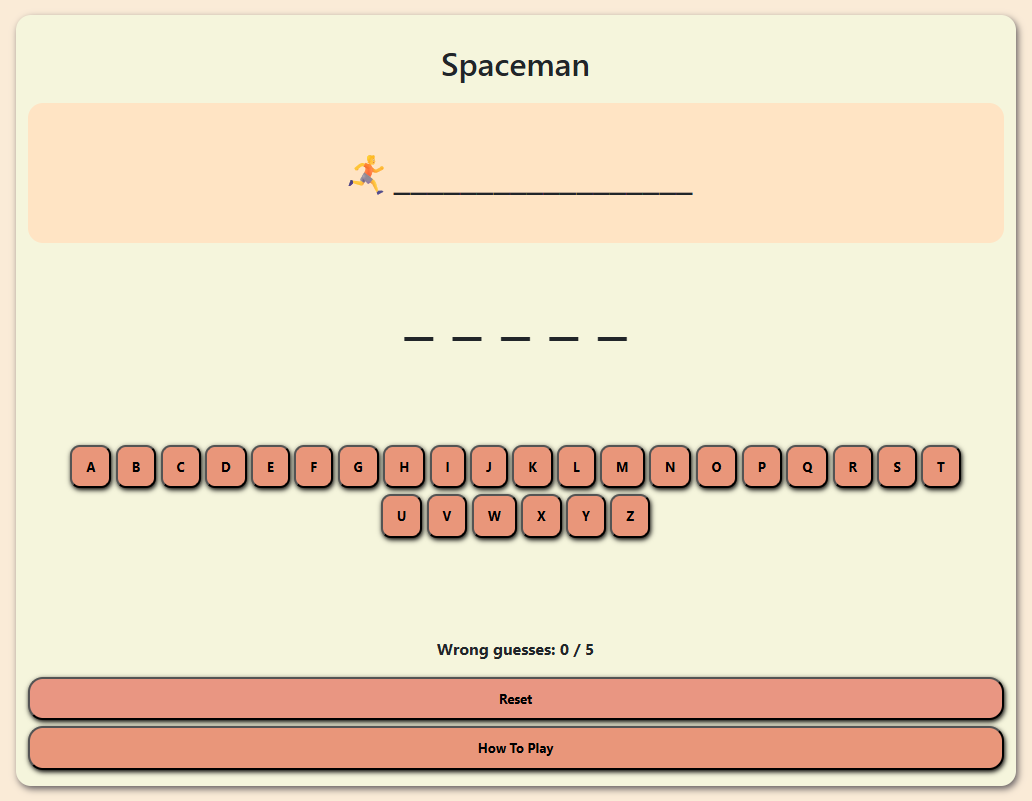
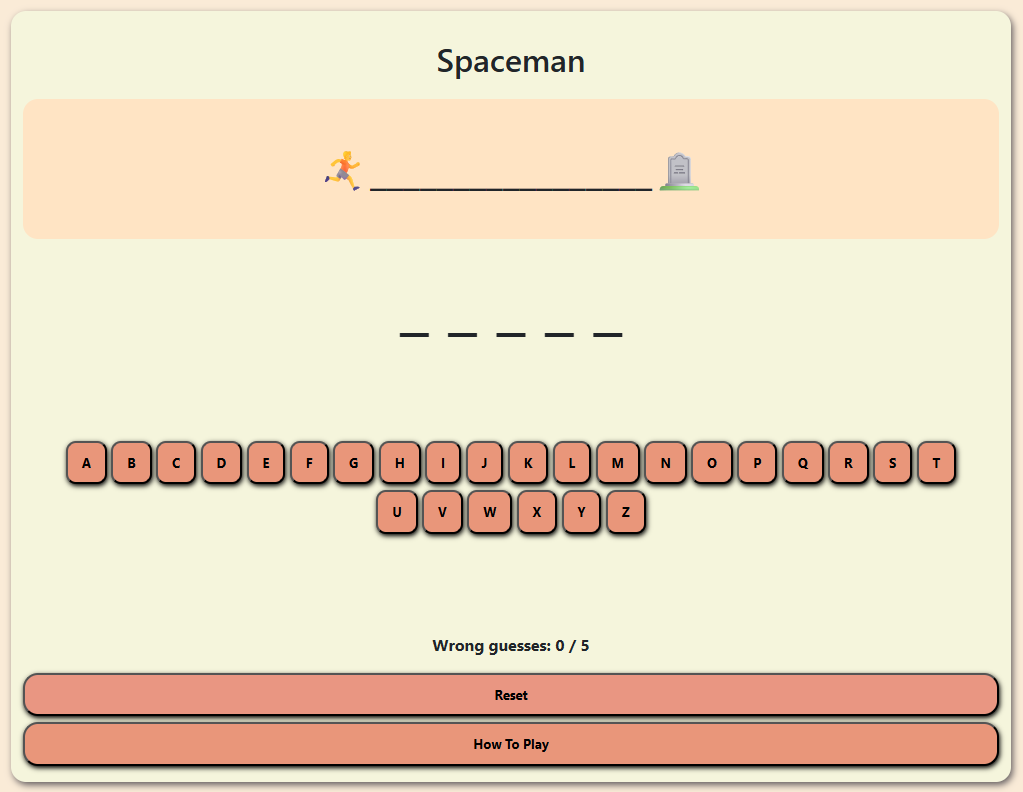
I removed unnecessary comments and updated some images

diff --git a/js/app.js b/js/app.js
@@ -1,7 +1,7 @@
 /*-------------- Constants -------------*/
 const words = ['cat', 'lion', 'dog', 'zebra', 'bird', 'hamster', 'goat', 'pig', 'horse', 'wolf', 'banana', 'mouse', 'banana', 'orange', 'table', 'board', 'chair', 'paper', 'card', 'pen', 'door', 'wire', 'computer', 'pencil', 'table', 'teacher', 'window', 'flower', 'water', 'panda', 'candy', 'bag', 'glass', 'hat', 'pizza', 'burger', 'juice', 'tower',];
 const misTimes = 5; // maximum number of wrong guesses
-const spacePics = ['🏃➡__________________', '_____🏃➡_____________', '________🏃➡__________', '____________🏃➡______', '_______________🏃➡___', '______________🪦😵'];
+const spacePics = ['🏃➡_________________🪦', '_____🏃➡____________🪦', '________🏃➡_________🪦', '____________🏃➡_____🪦', '_______________🏃➡__🪦', '____________________🪦😵'];
 
 /*---------- Variables ---------*/
 let wordRdm = '';
@@ -34,7 +34,7 @@ startGame = () => {
 guessWord = (letter, btn) => {
     if (loseGame || guessLetter.includes(letter)) return;
     guessLetter.push(letter);
-    
+
     // disable the button after guess
     btn.disabled = true;
 

diff --git a/css/style.css b/css/style.css
@@ -6,7 +6,6 @@ body {
     background-color: antiquewhite !important;
     font-size: 20px;
     text-align: center;
-    /* max-width: 750px; */
     margin: 0 auto ; 
     padding: 2em !important;
 }
@@ -23,7 +22,6 @@ body {
     flex-direction: column;
     width: fit-content;
     
-
 }
 
 .word {

diff --git a/README.md b/README.md
@@ -1,13 +1,12 @@
 # 🎮 Spaceman-Game
 
-<!-- ![spaceman](/pictures/imagespa.png){width=300px} -->
 <img src="./pictures/spaceman.png" width="400" height="350">
 
 - Done by: Khaled Jamal
 
 ## 📃 Game Description:
 
-Spaceman is a game player guess the word by typing letters from the keyboard within restricted number of tries. To win you need to get the right letters to know the random word otherwise you will lose. 
+Spaceman is a game player guess the word by typing letters from the keyboard within restricted number of tries. To win, you need to get the right letters to know the random word otherwise you will lose. 
 
 ## 🔎 Background info:
 I am creating this project as part of my studies at General Assembly's software engineering bootcamp.
